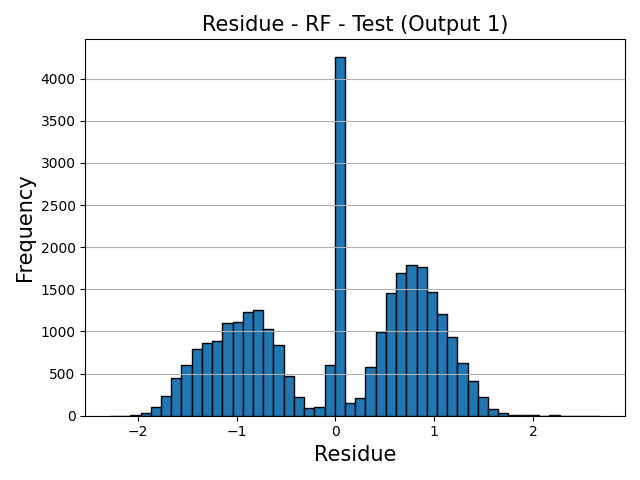
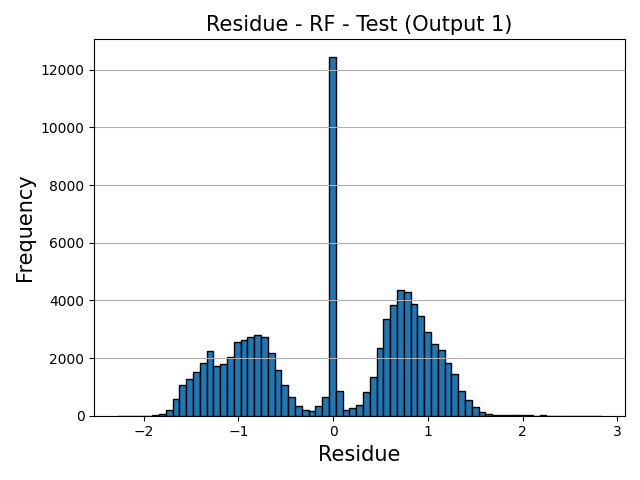
vai

diff --git a/08-modelling-10.py b/08-modelling-10.py
@@ -1,0 +1,136 @@
+'''
+MODELLING - RANDOM FOREST WITH OPTIMIZED PARAMETERS
+SEPARATE MODELS FOR EACH OUTPUT
+BINARY LABELS
+'''
+import os
+import logging
+import joblib
+import numpy as np
+import optuna
+from sklearn.ensemble import RandomForestClassifier
+from sklearn.model_selection import train_test_split
+from sklearn.metrics import accuracy_score, roc_auc_score, classification_report
+
+# Dynamically generate the log file name based on the script name
+LOG_FILE = f"{os.path.splitext(os.path.basename(__file__))[0]}.log"
+
+# Configure logging
+logging.basicConfig(
+    filename=LOG_FILE,
+    level=logging.INFO,
+    format='%(asctime)s - %(levelname)s - %(message)s',
+    filemode='w'
+)
+
+# Model identification
+MODEL_ID = '10'
+
+# Specify data and output folders
+INPUT_FOLDER = 'input_files'
+OUTPUT_FOLDER = 'output_files'
+
+# Import x and y dataframes
+df_scaled_x = joblib.load(os.path.join(INPUT_FOLDER, 'df2_scaled_x.joblib'))
+df_scaled_y = joblib.load(os.path.join(INPUT_FOLDER, 'df2_bin_y.joblib'))
+
+x_scaled = df_scaled_x.values
+y_scaled = df_scaled_y.values
+
+logging.info(f"x scaled shape: {x_scaled.shape}")
+logging.info(f"y scaled shape: {y_scaled.shape}")
+
+# Split data into training and remaining (validation + test) sets
+x_train_scaled, x_rem_scaled, y_train_scaled, y_rem_scaled = train_test_split(x_scaled, y_scaled, train_size=0.7, random_state=42)
+
+# Split the remaining data into validation and test sets
+x_val_scaled, x_test_scaled, y_val_scaled, y_test_scaled = train_test_split(x_rem_scaled, y_rem_scaled, test_size=1/3, random_state=42)
+
+logging.info(f"x_train shape: {x_train_scaled.shape}")
+logging.info(f"y_train shape: {y_train_scaled.shape}")
+logging.info(f"x_val shape: {x_val_scaled.shape}")
+logging.info(f"y_val shape: {y_val_scaled.shape}")
+logging.info(f"x_test shape: {x_test_scaled.shape}")
+logging.info(f"y_test shape: {y_test_scaled.shape}")
+
+# Train and optimize separate models for each output
+final_models = {}
+for i in range(y_scaled.shape[1]):
+    logging.info(f"Starting optimization for output {i}")
+    
+    # Extract data for the current output
+    y_train = y_train_scaled[:, i]
+    y_val = y_val_scaled[:, i]
+    y_test = y_test_scaled[:, i]
+    
+    # Define the objective function specific to the current output
+    def objective(trial):
+        # Suggest hyperparameters
+        n_estimators = trial.suggest_int("n_estimators", 100, 300, step=10)
+        max_depth = trial.suggest_int("max_depth", 10, 50, step=10)
+        min_samples_split = trial.suggest_int("min_samples_split", 2, 10)
+        min_samples_leaf = trial.suggest_int("min_samples_leaf", 1, 10)
+        
+        # Define the Random Forest model
+        rf_model = RandomForestClassifier(
+            n_estimators=n_estimators,
+            max_depth=max_depth,
+            min_samples_split=min_samples_split,
+            min_samples_leaf=min_samples_leaf,
+            random_state=42,
+            n_jobs=-1
+        )
+        
+        # Train the model
+        rf_model.fit(x_train_scaled, y_train)
+        
+        # Evaluate the model on the validation set
+        y_val_pred_proba = rf_model.predict_proba(x_val_scaled)[:, 1]
+        roc_auc = roc_auc_score(y_val, y_val_pred_proba)
+        
+        # Log the trial details
+        logging.info(
+            f"Trial {trial.number}: "
+            f"n_estimators={n_estimators}, max_depth={max_depth}, "
+            f"min_samples_split={min_samples_split}, min_samples_leaf={min_samples_leaf}, "
+            f"ROC AUC={roc_auc:.4f}"
+        )
+        
+        return roc_auc
+
+    # Run Optuna optimization
+    study = optuna.create_study(direction="maximize")
+    study.optimize(objective, n_trials=50)
+    
+    # Log the best parameters and value
+    best_params = study.best_params
+    logging.info(f"Best parameters for output {i}: {best_params}")
+    logging.info(f"Best validation ROC AUC for output {i}: {study.best_value}")
+    
+    # Train the final model using the best parameters
+    rf_model = RandomForestClassifier(
+        n_estimators=best_params["n_estimators"],
+        max_depth=best_params["max_depth"],
+        min_samples_split=best_params["min_samples_split"],
+        min_samples_leaf=best_params["min_samples_leaf"],
+        random_state=42,
+        n_jobs=-1
+    )
+    rf_model.fit(x_train_scaled, y_train)
+    logging.info(f"Final Random Forest model for output {i} training completed.")
+    
+    # Evaluate the model on the test set
+    y_test_pred_proba = rf_model.predict_proba(x_test_scaled)[:, 1]
+    y_test_pred_class = rf_model.predict(x_test_scaled)
+    
+    test_accuracy = accuracy_score(y_test, y_test_pred_class)
+    test_roc_auc = roc_auc_score(y_test, y_test_pred_proba)
+    
+    logging.info(f"Test Accuracy (output {i}): {test_accuracy}")
+    logging.info(f"Test ROC AUC (output {i}): {test_roc_auc}")
+    logging.info(f"Classification Report (output {i}):\n{classification_report(y_test, y_test_pred_class)}")
+    
+    # Save the model and its metrics
+    final_models[f"output_{i}"] = rf_model
+    joblib.dump(rf_model, os.path.join(OUTPUT_FOLDER, f'optimized_model_output_{i}-{MODEL_ID}.joblib'))
+    logging.info(f"Optimized Random Forest model for output {i} saved as optimized_model_output_{i}-{MODEL_ID}.joblib.")

diff --git a/08-modelling-03b.py b/08-modelling-03b.py
@@ -39,7 +39,7 @@ logging.info(f"x scaled shape: {x_scaled.shape}")
 logging.info(f"y scaled shape: {y_scaled.shape}")
 
 # Split data into training and remaining (validation + test) sets
-x_train_scaled, x_rem_scaled, y_train_scaled, y_rem_scaled = train_test_split(x_scaled, y_scaled, train_size=0.9, random_state=42)
+x_train_scaled, x_rem_scaled, y_train_scaled, y_rem_scaled = train_test_split(x_scaled, y_scaled, train_size=0.7, random_state=42)
 
 # Split the remaining data into validation and test sets
 x_val_scaled, x_test_scaled, y_val_scaled, y_test_scaled = train_test_split(x_rem_scaled, y_rem_scaled, test_size=1/3, random_state=42)
@@ -98,7 +98,7 @@ for i in range(y_train_scaled.shape[1]):
 
     # Log the best parameters and their value
     logging.info(f"Output {i + 1} - Best parameters: {study.best_params}")
-    logging.info(f"Output {i + 1} - Best validation R2: {study.best_value}")
+    logging.info(f"Output {i + 1} - Best validation: {study.best_value}")
 
     # Train the final model using the best parameters for the current output
     best_params = study.best_params

diff --git a/08-modelling-09.py b/08-modelling-09.py
@@ -64,6 +64,7 @@ def objective(trial):
     # Define the Random Forest model
     rf_base_model = RandomForestClassifier(
         n_estimators=n_estimators,
+        n_estimators=n_estimators,
         max_depth=max_depth,
         min_samples_split=min_samples_split,
         min_samples_leaf=min_samples_leaf,
